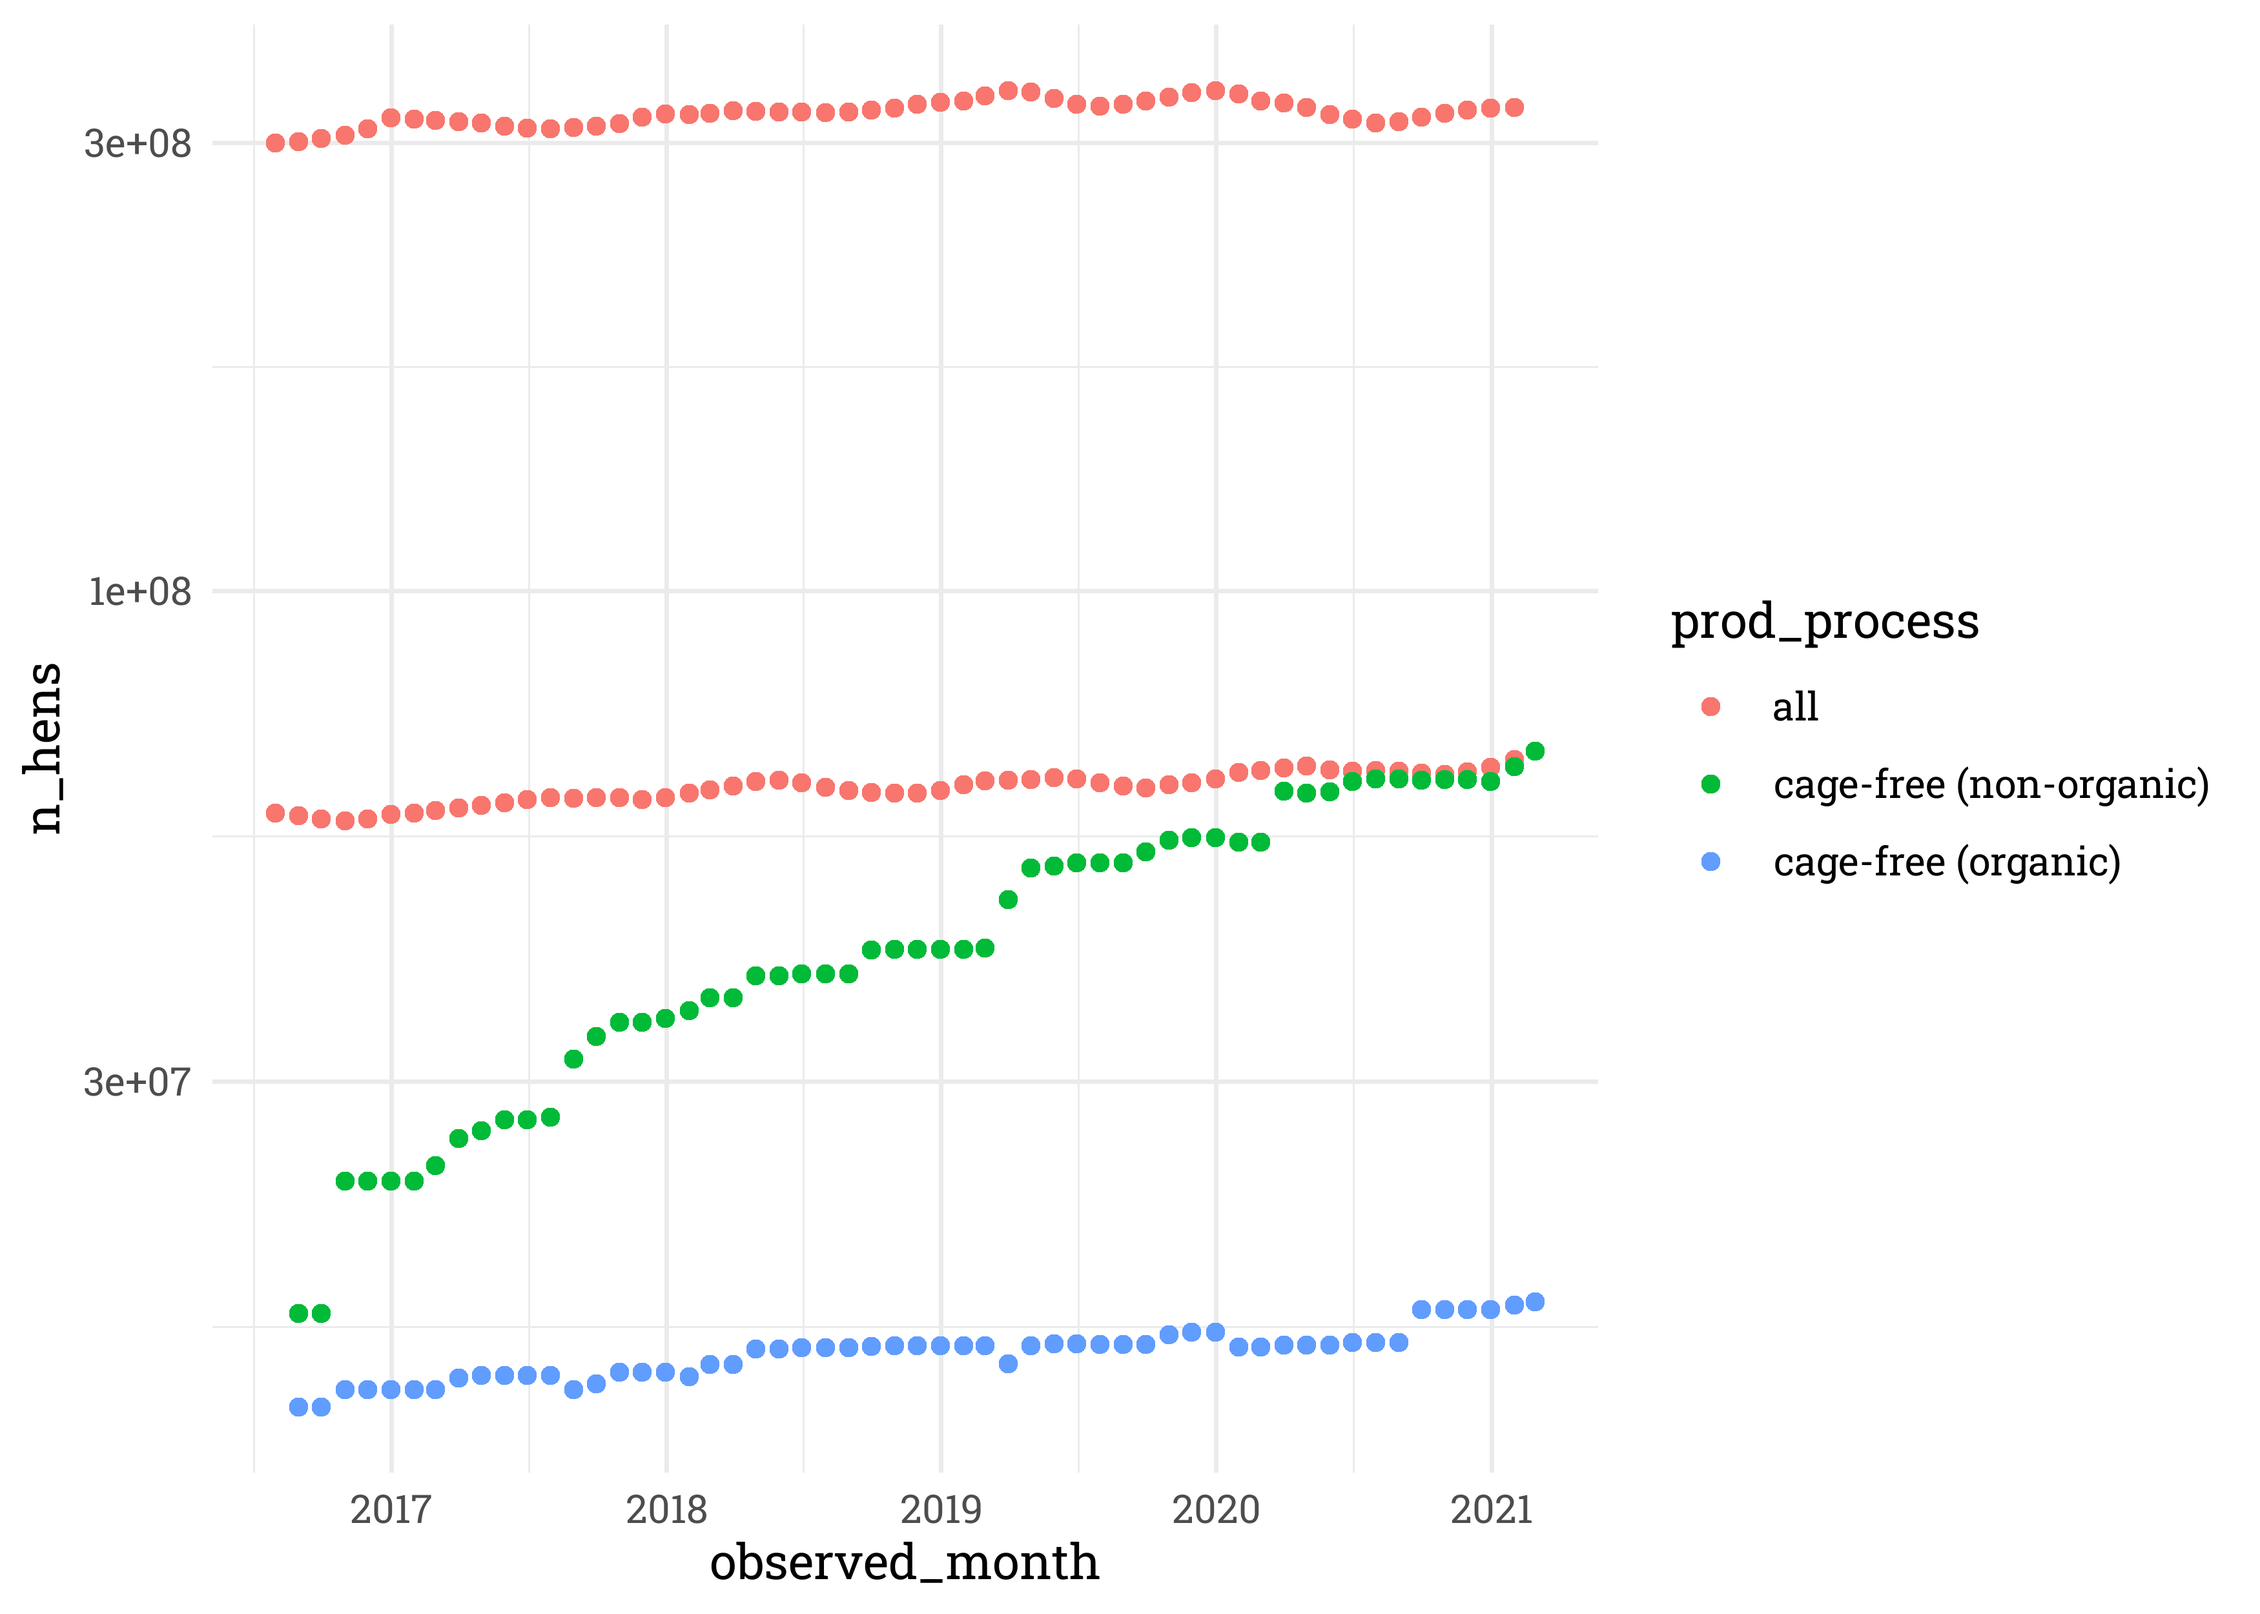
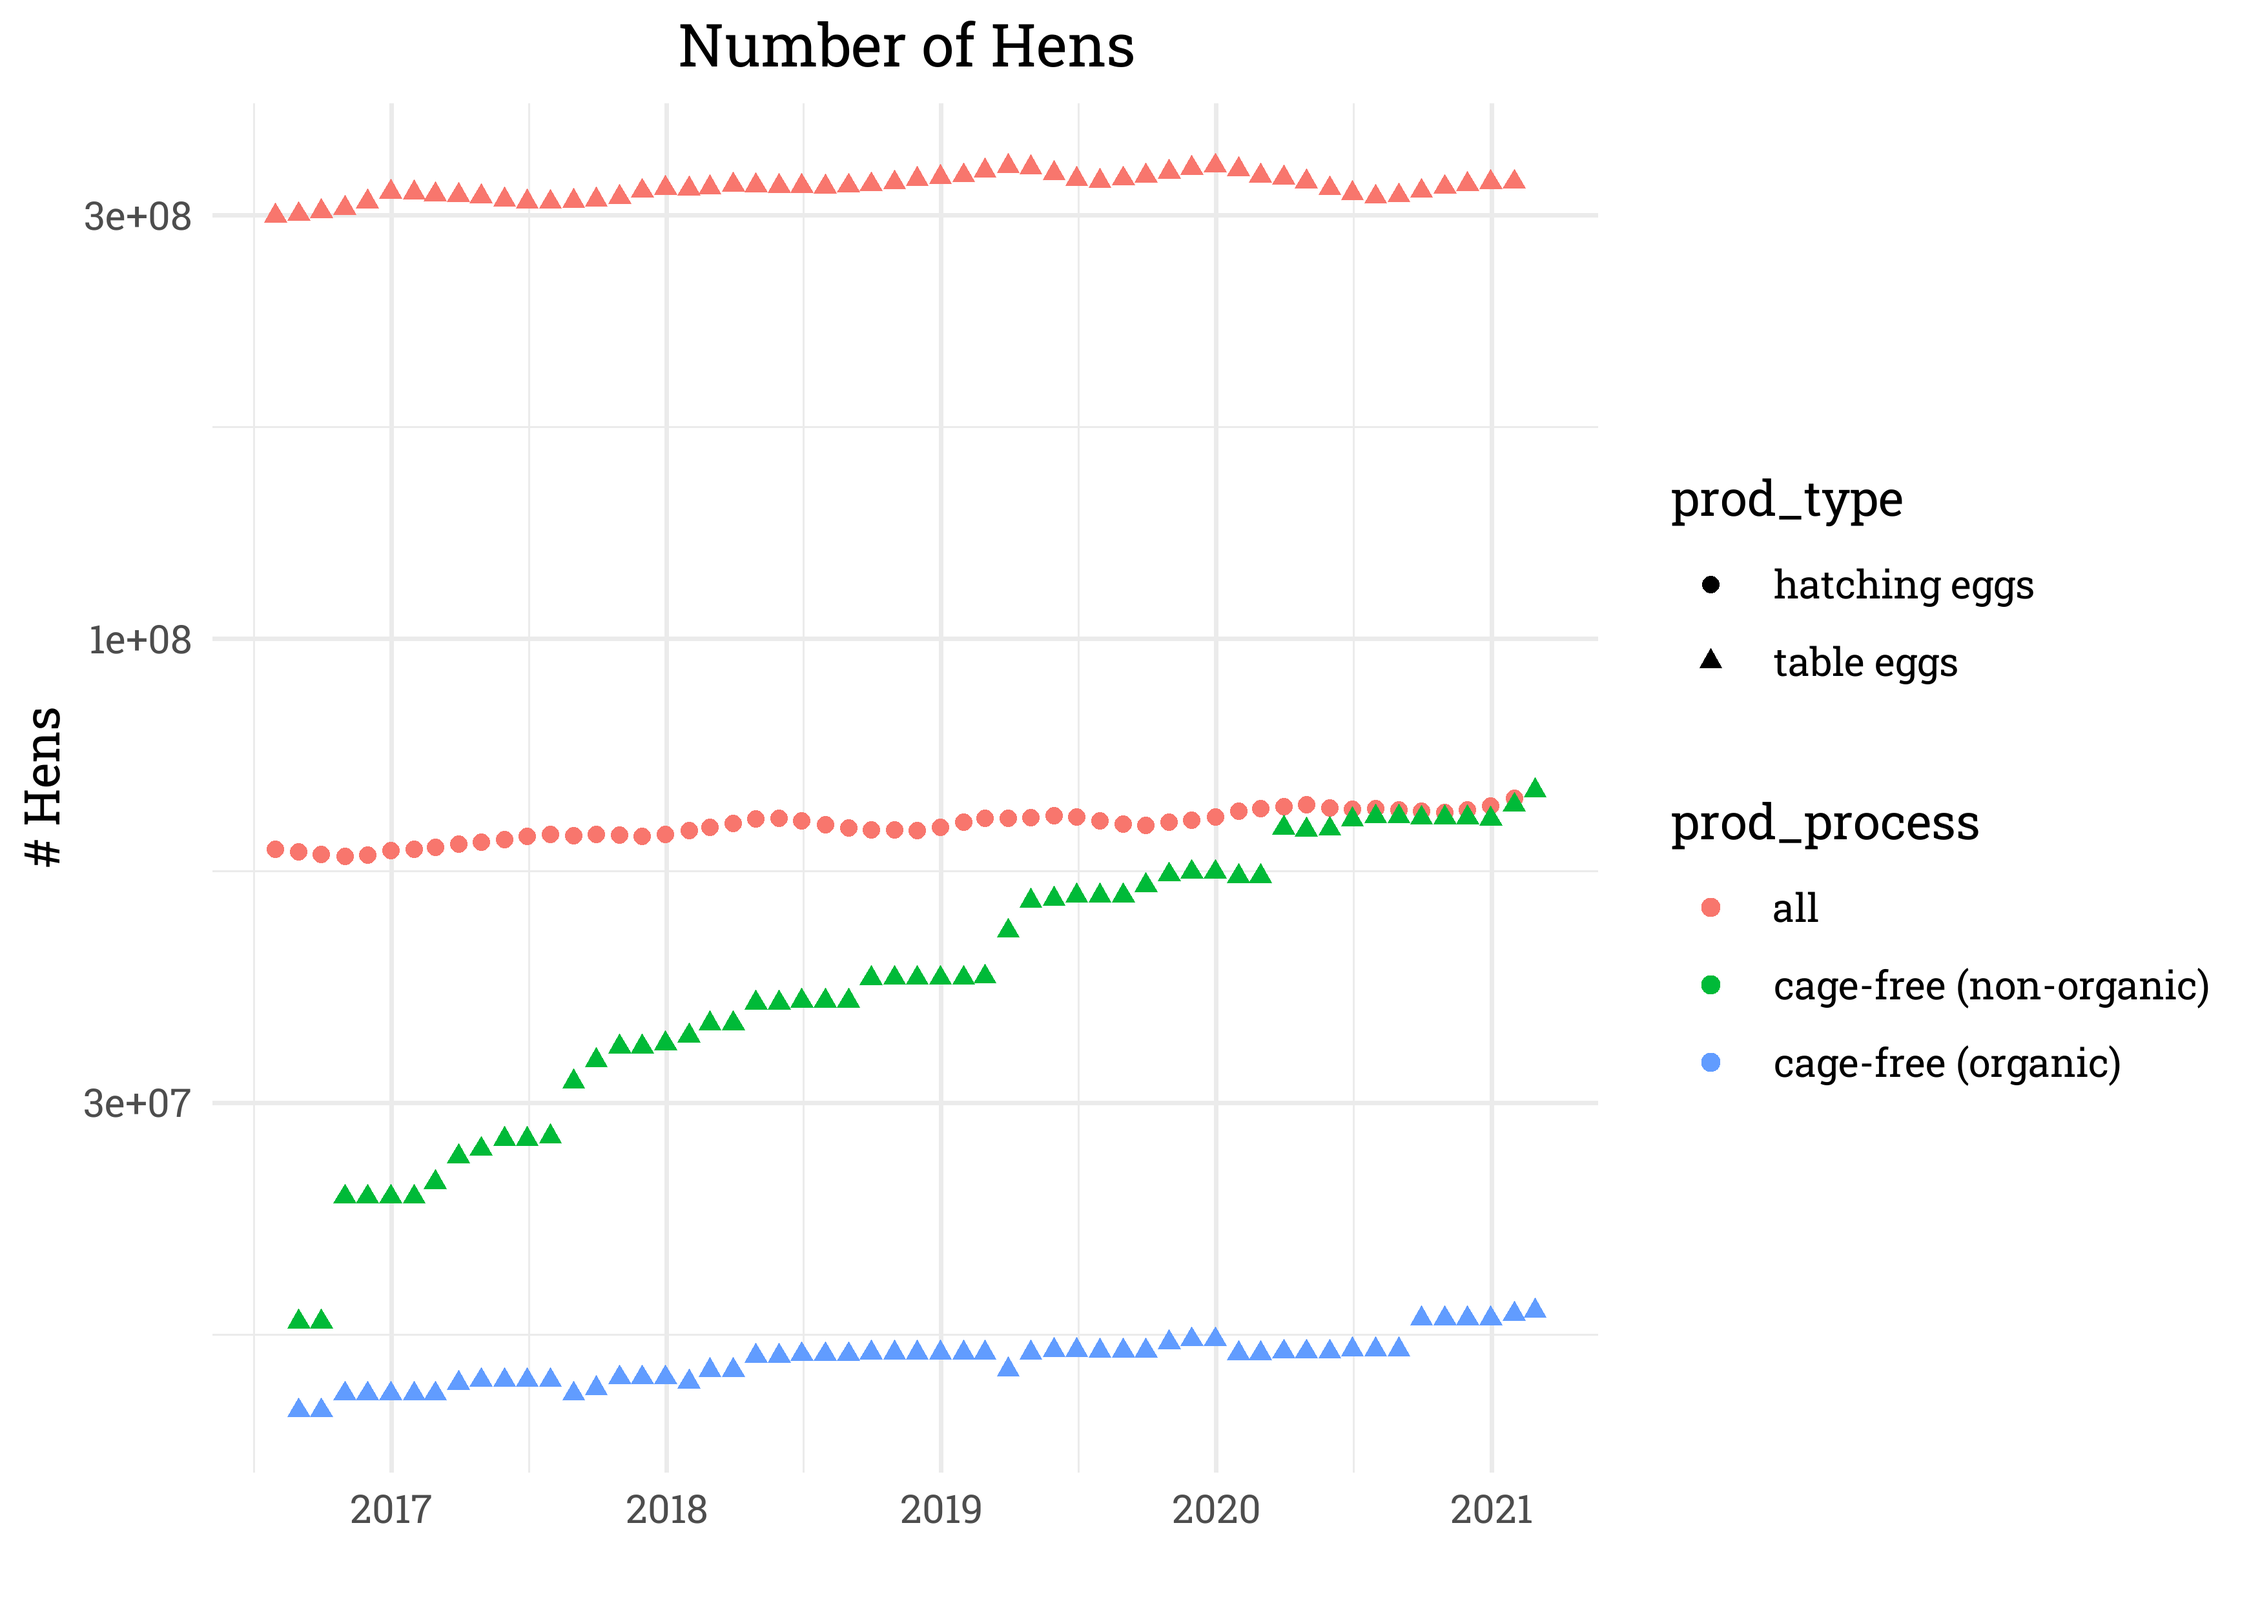
labs()

diff --git a/2023/04-13-23/Egg-Production.md b/2023/04-13-23/Egg-Production.md
@@ -18,9 +18,10 @@ cagefreepercentages <- read_csv('https://raw.githubusercontent.com/rfordatascien
 
 ``` r
 eggproduction %>% 
-  ggplot(aes(observed_month, n_hens, color = prod_process)) +
+  ggplot(aes(observed_month, n_hens, color = prod_process, shape = prod_type)) +
   geom_point() +
-  scale_y_log10()
+  scale_y_log10() +
+  labs(y = "# Hens", x = "", title = "Number of Hens")
 ```
 
 ![](Egg-Production_files/figure-gfm/unnamed-chunk-2-1.png)<!-- -->
@@ -29,7 +30,8 @@ eggproduction %>%
 eggproduction %>% 
   filter(prod_process == "all") %>% 
   ggplot(aes(observed_month, n_hens, color = prod_type)) +
-  geom_point()
+  geom_point() +
+  labs(y = "# Hens", x = "", "Number of Hens by type")
 ```
 
 ![](Egg-Production_files/figure-gfm/unnamed-chunk-2-2.png)<!-- -->
